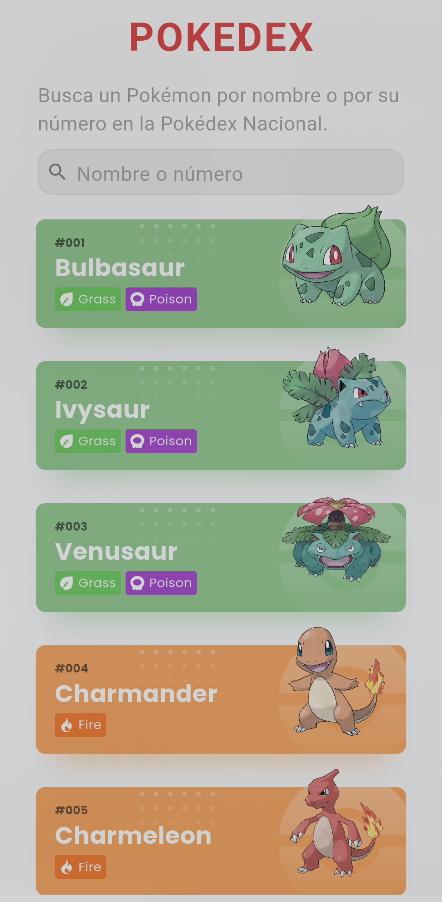
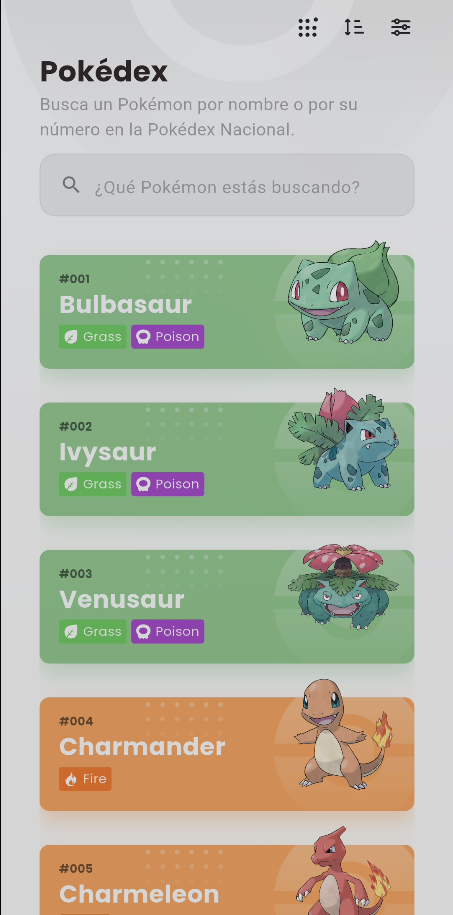
Actualiza la constante de presentación en `presentation_constants.dart` para incluir nuevos parámetros relacionados con la Pokébola. Se crea la clase `PokemonImages` para gestionar las imágenes de manera más organizada. Se refactorizan múltiples widgets para utilizar la nueva referencia de imagen en

diff --git a/lib/features/pokemon/presentation/pages/home_page.dart b/lib/features/pokemon/presentation/pages/home_page.dart
@@ -7,6 +7,7 @@ import 'package:pokedex_application/features/pokemon/presentation/bloc/pokemon_l
 import 'package:pokedex_application/features/pokemon/presentation/bloc/pokemon_list_with_details_state.dart';
 import 'package:pokedex_application/features/pokemon/presentation/constants/presentation_constants.dart';
 import 'package:pokedex_application/features/pokemon/presentation/widgets/home/pokemon_app_bar.dart';
+import 'package:pokedex_application/features/pokemon/presentation/widgets/home/pokemon_bokeball_background.dart';
 import 'package:pokedex_application/features/pokemon/presentation/widgets/home/pokemon_grid.dart';
 import 'package:pokedex_application/features/pokemon/presentation/widgets/home/pokemon_home_app_bar.dart';
 import 'package:pokedex_application/features/pokemon/presentation/widgets/home/pokemon_search_bar.dart';
@@ -75,9 +76,9 @@ class _HomePageState extends State<HomePage>
       builder: (context, state) {
         if (state is PokemonListWithDetailsInitial ||
             (state is PokemonListWithDetailsLoading && !state.hasInitialData)) {
-          return Scaffold(
-            backgroundColor: PresentationConstants.backgroundColor,
+          return _buildScaffoldWithBackground(
             body: const PokemonGridLoadingView(),
+            withActions: false,
           );
         } else if (state is PokemonListWithDetailsLoaded ||
             state is PokemonListWithDetailsLoadingMore ||
@@ -95,14 +96,13 @@ class _HomePageState extends State<HomePage>
             pokemons = state.initialPokemons;
           }
 
-          return Scaffold(
-            backgroundColor: PresentationConstants.backgroundColor,
-            appBar: const HomeAppBar(),
+          return _buildScaffoldWithBackground(
             body: _buildMainContent(pokemons, isLoadingMore),
+            withActions: true,
           );
         } else if (state is PokemonListWithDetailsError) {
-          return _buildErrorView(
-            PokemonErrorView(
+          return _buildScaffoldWithBackground(
+            body: PokemonErrorView(
               message: state.message,
               onRetry: () {
                 context.read<PokemonListWithDetailsBloc>().add(
@@ -110,6 +110,7 @@ class _HomePageState extends State<HomePage>
                 );
               },
             ),
+            withActions: false,
           );
         }
 
@@ -118,10 +119,30 @@ class _HomePageState extends State<HomePage>
     );
   }
 
-  Widget _buildErrorView(Widget errorWidget) {
+  Widget _buildScaffoldWithBackground({
+    required Widget body,
+    required bool withActions,
+  }) {
     return Scaffold(
-      appBar: const HomeAppBar(),
-      body: errorWidget,
+      backgroundColor: PresentationConstants.backgroundColor,
+      // Eliminamos el AppBar para controlar el espacio completo
+      body: Stack(
+        children: [
+          // Imagen de fondo (Pokeball) - ahora en la parte superior real
+          const PokemonPokeballBackground(),
+          // SafeArea para asegurar que el contenido no se superponga con el notch o la barra de estado
+          SafeArea(
+            child: Column(
+              children: [
+                // Espacio para los iconos de acción solo cuando es necesario
+                if (withActions) const HomeAppBar(),
+                // Contenido principal
+                Expanded(child: body),
+              ],
+            ),
+          ),
+        ],
+      ),
     );
   }
 
@@ -133,10 +154,10 @@ class _HomePageState extends State<HomePage>
       child: CustomScrollView(
         controller: _scrollController,
         slivers: [
-          const PokemonAppBar(),
+          const PokemonHomeTitle(),
           PokemonSearchBar(searchController: _searchController),
           const SliverToBoxAdapter(
-            child: SizedBox(height: PresentationConstants.paddingLarge),
+            child: SizedBox(height: PresentationConstants.paddingXLarge),
           ),
           PokemonGrid(
             pokemons: pokemons,

diff --git a/lib/features/pokemon/presentation/widgets/home/pokemon_home_app_bar.dart b/lib/features/pokemon/presentation/widgets/home/pokemon_home_app_bar.dart
@@ -10,33 +10,37 @@ class HomeAppBar extends StatelessWidget implements PreferredSizeWidget {
 
   @override
   Widget build(BuildContext context) {
-    return AppBar(
-      backgroundColor: PresentationConstants.backgroundColor,
-      actionsPadding: const EdgeInsets.only(
-        right: PresentationConstants.paddingLarge,
+    return Padding(
+      padding: const EdgeInsets.only(right: PresentationConstants.paddingLarge),
+      child: Row(
+        mainAxisAlignment: MainAxisAlignment.end,
+        children: [
+          IconButton(
+            onPressed: () {},
+            icon: SvgPicture.asset(
+              'assets/svg/generation.svg',
+              width: 25,
+              height: 25,
+            ),
+          ),
+          IconButton(
+            onPressed: () {},
+            icon: SvgPicture.asset(
+              'assets/svg/sort.svg',
+              width: 25,
+              height: 25,
+            ),
+          ),
+          IconButton(
+            onPressed: () {},
+            icon: SvgPicture.asset(
+              'assets/svg/filter.svg',
+              width: 25,
+              height: 25,
+            ),
+          ),
+        ],
       ),
-      actions: [
-        IconButton(
-          onPressed: () {},
-          icon: SvgPicture.asset(
-            'assets/svg/generation.svg',
-            width: 25,
-            height: 25,
-          ),
-        ),
-        IconButton(
-          onPressed: () {},
-          icon: SvgPicture.asset('assets/svg/sort.svg', width: 25, height: 25),
-        ),
-        IconButton(
-          onPressed: () {},
-          icon: SvgPicture.asset(
-            'assets/svg/filter.svg',
-            width: 25,
-            height: 25,
-          ),
-        ),
-      ],
     );
   }
 }

diff --git a/lib/features/pokemon/presentation/constants/presentation_constants.dart b/lib/features/pokemon/presentation/constants/presentation_constants.dart
@@ -37,6 +37,15 @@ class PresentationConstants {
 
   // Color
   static const Color backgroundColor = Colors.white;
+
+  // Pokeball Home
+  static const double pokeballHomeSize = 500.0;
+  static const double pokeballHomeOpacity = 0.12;
+  static const double pokeballHomeGradientOpacity = 0.0;
+  static const double pokeballHomeGradientOpacityButton = 0.9;
+  static const Color pokeballHomeColor = Colors.black;
+  static const double pokeballHomePositionTop =
+      (pokeballHomeSize * 0.5) - (pokeballHomeSize);
 }
 
 /// Constantes para las tarjetas de Pokémon
@@ -207,9 +216,6 @@ class AppTexts {
   static const String errorTitle = 'Ha ocurrido un error';
   static const String connectionErrorMessage =
       'Parece que hay un problema de conexión. Por favor, verifica tu conexión a internet e intenta nuevamente.';
-
-  // imagenes
-  static const String pokeballImage = 'assets/images/pokeball.png';
 }
 
 /// Constantes para el placeholder de carga de imágenes
@@ -254,6 +260,11 @@ class ParticleEffectConstants {
   static const int particleCount = 20;
   static const int particleSeed = 1234567890;
   static const Color particleColor = Colors.white;
+}
+
+// imagenes
+class PokemonImages {
+  static const String pokeballImage = 'assets/images/pokeball.png';
 }
 
 //Contantes contenido inicial

diff --git a/lib/features/pokemon/presentation/widgets/home/pokemon_bokeball_background.dart b/lib/features/pokemon/presentation/widgets/home/pokemon_bokeball_background.dart
@@ -1,0 +1,39 @@
+import 'package:flutter/material.dart';
+
+import '../../constants/presentation_constants.dart';
+
+class PokemonPokeballBackground extends StatelessWidget {
+  const PokemonPokeballBackground({super.key});
+
+  @override
+  Widget build(BuildContext context) {
+    return Positioned(
+      top: PresentationConstants.pokeballHomePositionTop,
+      child: ShaderMask(
+        shaderCallback: (Rect bounds) {
+          return LinearGradient(
+            begin: Alignment.topCenter,
+            end: Alignment.bottomCenter,
+            colors: [
+              PresentationConstants.pokeballHomeColor.withOpacity(
+                PresentationConstants.pokeballHomeGradientOpacityButton,
+              ),
+              PresentationConstants.pokeballHomeColor.withOpacity(
+                PresentationConstants.pokeballHomeGradientOpacity,
+              ),
+            ],
+          ).createShader(bounds);
+        },
+        child: Opacity(
+          opacity: PresentationConstants.pokeballHomeOpacity,
+          // Gradiant
+          child: Image.asset(
+            PokemonImages.pokeballImage,
+            width: PresentationConstants.pokeballHomeSize,
+            height: PresentationConstants.pokeballHomeSize,
+          ),
+        ),
+      ),
+    );
+  }
+}

diff --git a/lib/features/pokemon/presentation/widgets/home/pokemon_loading_view.dart b/lib/features/pokemon/presentation/widgets/home/pokemon_loading_view.dart
@@ -55,7 +55,7 @@ class _PokemonLoadingAnimation extends StatelessWidget {
       ),
       child: const Center(
         child: Image(
-          image: AssetImage(AppTexts.pokeballImage),
+          image: AssetImage(PokemonImages.pokeballImage),
           width: 100,
           height: 100,
         ),
@@ -142,7 +142,7 @@ class _LoadingAppBar extends StatelessWidget {
               child: Opacity(
                 opacity: 0.2,
                 child: Image(
-                  image: AssetImage(AppTexts.pokeballImage),
+                  image: AssetImage(PokemonImages.pokeballImage),
                   width: 150,
                   height: 150,
                 ),
@@ -372,7 +372,7 @@ class _PokemonCardPlaceholderState extends State<_PokemonCardPlaceholder>
                 ),
                 child: Center(
                   child: Image.asset(
-                    AppTexts.pokeballImage,
+                    PokemonImages.pokeballImage,
                     width: 90,
                     height: 90,
                     color: Colors.white.withOpacity(0.7),

diff --git a/lib/features/pokemon/presentation/widgets/home/pokemon_build_loading_card.dart b/lib/features/pokemon/presentation/widgets/home/pokemon_build_loading_card.dart
@@ -51,7 +51,7 @@ class PokemonBuildLoadingCard extends StatelessWidget {
             child: Opacity(
               opacity: 0.2,
               child: Image.asset(
-                AppTexts.pokeballImage,
+                PokemonImages.pokeballImage,
                 width: 120,
                 height: 120,
                 errorBuilder: (_, __, ___) => const SizedBox(),
@@ -157,7 +157,7 @@ class PokemonBuildLoadingCard extends StatelessWidget {
                     shape: BoxShape.circle,
                   ),
                   child: Image.asset(
-                    AppTexts.pokeballImage,
+                    PokemonImages.pokeballImage,
                     width: 80,
                     height: 80,
                     color: Colors.white.withOpacity(0.7),

diff --git a/lib/features/pokemon/presentation/widgets/detail/pokemon_image_placeholder.dart b/lib/features/pokemon/presentation/widgets/detail/pokemon_image_placeholder.dart
@@ -22,7 +22,7 @@ class PokemonImagePlaceholder extends StatelessWidget {
           child: Opacity(
             opacity: ImagePlaceholderConstants.pokeballOpacity,
             child: Image.asset(
-              AppTexts.pokeballImage,
+              PokemonImages.pokeballImage,
               width: ImagePlaceholderConstants.pokeballSize,
               height: ImagePlaceholderConstants.pokeballSize,
               color: Colors.white.withOpacity(0.5),

diff --git a/lib/features/pokemon/presentation/widgets/detail/header/pokemon_header_pokeball_background.dart b/lib/features/pokemon/presentation/widgets/detail/header/pokemon_header_pokeball_background.dart
@@ -56,7 +56,7 @@ class _PokemonHeaderPokeballBackgroundState extends State<PokemonHeaderPokeballB
                 },
                 blendMode: BlendMode.dstIn,
                 child: Image.asset(
-                  AppTexts.pokeballImage,
+                  PokemonImages.pokeballImage,
                   width: 100,
                   height: 100,
                   fit: BoxFit.contain,

diff --git a/lib/features/pokemon/presentation/widgets/detail/pokemon_loading_detail.dart b/lib/features/pokemon/presentation/widgets/detail/pokemon_loading_detail.dart
@@ -60,7 +60,7 @@ class PokemonLoadingDetail extends StatelessWidget {
               child: Opacity(
                 opacity: 0.1,
                 child: Image.asset(
-                  AppTexts.pokeballImage,
+                  PokemonImages.pokeballImage,
                   width: 200,
                   height: 200,
                   errorBuilder: (_, __, ___) => const SizedBox(),

diff --git a/lib/features/pokemon/presentation/widgets/home/pokemon_app_bar.dart b/lib/features/pokemon/presentation/widgets/home/pokemon_app_bar.dart
@@ -2,8 +2,8 @@ import 'package:flutter/material.dart';
 import 'package:pokedex_application/features/pokemon/presentation/constants/presentation_constants.dart';
 import 'package:google_fonts/google_fonts.dart';
 
-class PokemonAppBar extends StatelessWidget {
-  const PokemonAppBar({
+class PokemonHomeTitle extends StatelessWidget {
+  const PokemonHomeTitle({
     super.key,
   });
 

diff --git a/lib/features/pokemon/presentation/widgets/home/pokemon_card_pokeball.dart b/lib/features/pokemon/presentation/widgets/home/pokemon_card_pokeball.dart
@@ -29,7 +29,7 @@ class PokemonCardPokeball extends StatelessWidget {
             ).createShader(bounds),
         blendMode: BlendMode.dstIn,
         child: Image.asset(
-          AppTexts.pokeballImage,
+          PokemonImages.pokeballImage,
           width: PokemonCardConstants.pokeballSize,
           height: PokemonCardConstants.pokeballSize,
           fit: BoxFit.cover,

diff --git a/lib/features/pokemon/presentation/widgets/home/pokemon_card_image.dart b/lib/features/pokemon/presentation/widgets/home/pokemon_card_image.dart
@@ -46,7 +46,7 @@ class PokemonCardImage extends StatelessWidget {
           child: Opacity(
             opacity: 0.7,
             child: Image.asset(
-              AppTexts.pokeballImage,
+              PokemonImages.pokeballImage,
               width: 80,
               height: 80,
               color: Colors.white.withOpacity(0.5),
